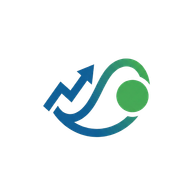
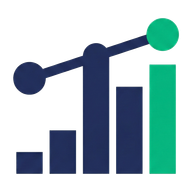
feat: 새 로고 적용 - 파비콘 교체 및 UI 로고 배치
logo.png에서 배경 제거 후 차트 아이콘만 추출하여 모든 파비콘 교체.
사이드바, 헤더, 랜딩 페이지, 로그인 페이지에 로고 이미지 추가.

diff --git a/src/components/layout/sidebar.tsx b/src/components/layout/sidebar.tsx
@@ -6,8 +6,8 @@ import {
   History,
   Settings,
   LogOut,
-  Wallet,
 } from "lucide-react";
+import Image from "next/image";
 import Link from "next/link";
 import { NavItem, type NavItemProps } from "./nav";
 import { Separator } from "@/components/ui/separator";
@@ -41,9 +41,7 @@ export function Sidebar() {
     <aside className="hidden md:flex md:w-64 md:flex-col md:fixed md:inset-y-0 border-r bg-sidebar">
       {/* Logo area */}
       <div className="flex h-16 items-center gap-3 px-6">
-        <div className="flex items-center justify-center size-8 bg-primary rounded-lg">
-          <Wallet className="h-4 w-4 text-primary-foreground" />
-        </div>
+        <Image src="/icon-192x192.png" alt="Rebalance-it" width={32} height={32} className="size-8" />
         <span className="text-xl font-bold text-foreground">Rebalance-it</span>
       </div>
       <Separator />

diff --git a/src/components/layout/header.tsx b/src/components/layout/header.tsx
@@ -1,6 +1,7 @@
 "use client";
 
 import { Settings, LogOut } from "lucide-react";
+import Image from "next/image";
 import Link from "next/link";
 import { Button } from "@/components/ui/button";
 import { signOut } from "@/lib/supabase/auth";
@@ -14,7 +15,10 @@ export function Header() {
   return (
     <header className="sticky top-0 z-50 flex h-16 items-center gap-4 border-b border-border backdrop-header px-4 md:px-6">
       {/* Mobile: app logo */}
-      <span className="text-lg font-bold text-foreground md:hidden">Rebalance-it</span>
+      <div className="flex items-center gap-2 md:hidden">
+        <Image src="/icon-192x192.png" alt="Rebalance-it" width={28} height={28} className="size-7" />
+        <span className="text-lg font-bold text-foreground">Rebalance-it</span>
+      </div>
 
       {/* Account selector */}
       <AccountSelector />

diff --git a/src/app/(auth)/login/page.tsx b/src/app/(auth)/login/page.tsx
@@ -16,6 +16,7 @@ import { Input } from "@/components/ui/input";
 import { Button } from "@/components/ui/button";
 import { Label } from "@/components/ui/label";
 import { Loader2 } from "lucide-react";
+import Image from "next/image";
 
 export default function LoginPage() {
   const router = useRouter();
@@ -100,6 +101,7 @@ export default function LoginPage() {
               animate={{ opacity: 1 }}
               transition={{ duration: 0.5, delay: 0.2 }}
             >
+              <Image src="/icon-512x512.png" alt="Rebalance-it" width={56} height={56} className="mx-auto size-14" />
               <CardTitle className="text-4xl font-bold text-foreground">
                 Rebalance-it
               </CardTitle>

diff --git a/src/app/page.tsx b/src/app/page.tsx
@@ -7,6 +7,7 @@ import { m } from "framer-motion";
 import { useAuth } from "@/hooks/use-auth";
 import { useGuestMode } from "@/contexts/guest-mode-context";
 import { Button } from "@/components/ui/button";
+import Image from "next/image";
 
 export default function Home() {
   const router = useRouter();
@@ -33,6 +34,7 @@ export default function Home() {
           transition={{ duration: 0.6, ease: "easeOut" }}
           className="text-center space-y-4"
         >
+          <Image src="/icon-512x512.png" alt="Rebalance-it" width={80} height={80} className="mx-auto size-20" />
           <h1 className="text-5xl md:text-6xl font-bold text-foreground">
             Rebalance-it
           </h1>
